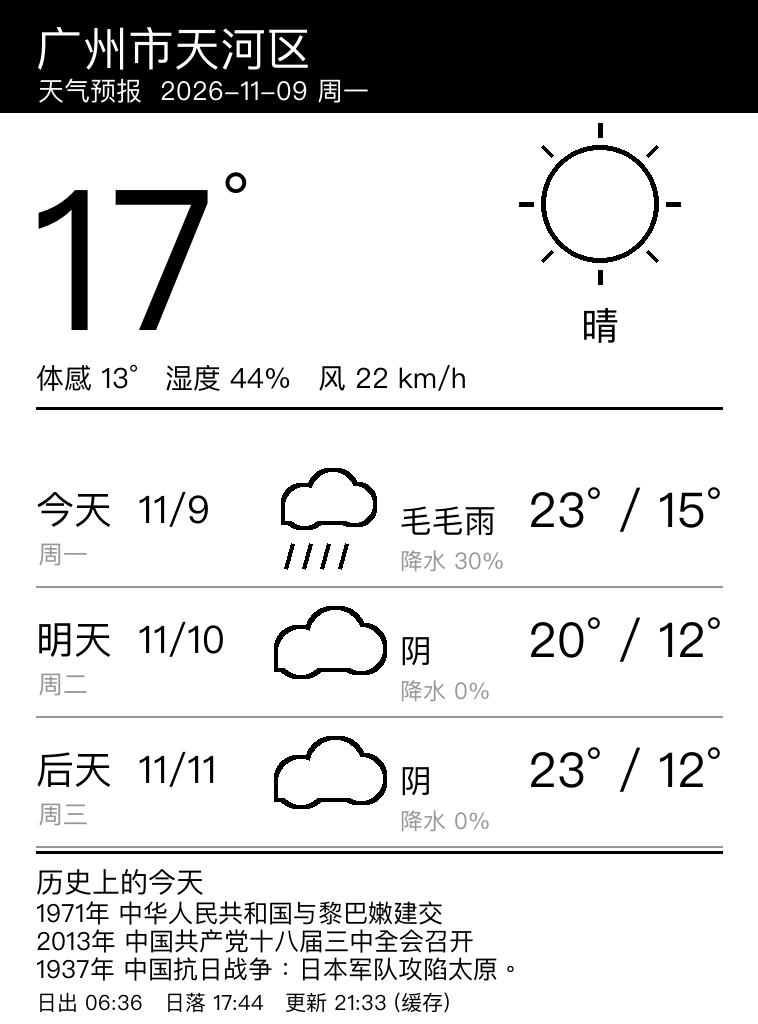
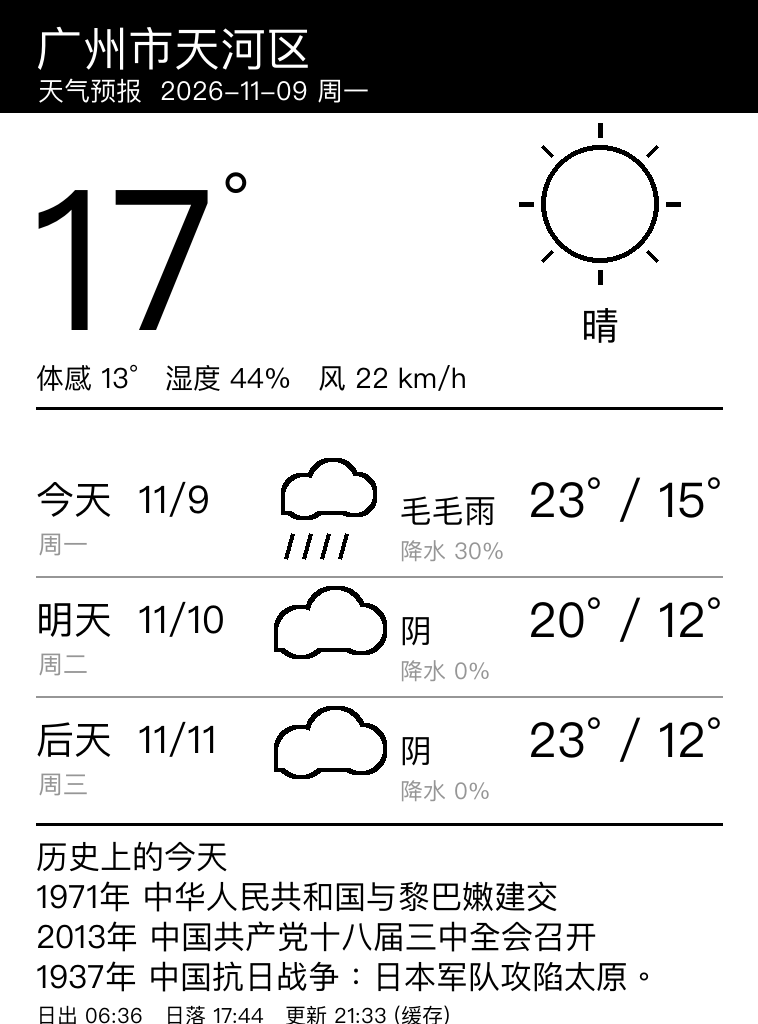
feat: enlarge Today-in-History font and give it more space

diff --git a/gen_weather.py b/gen_weather.py
@@ -339,7 +339,7 @@ def render(data, w, h, live):
 
     # ===== 三天预报（今天/明天/后天 自带标签，无需标题） =====
     names = ["今天", "明天", "后天"]
-    row_y = [T(470), T(600), T(730)]
+    row_y = [T(460), T(580), T(700)]
     for i in range(3):
         y = row_y[i]
         dt = datetime.strptime(dl["time"][i], "%Y-%m-%d")
@@ -356,7 +356,8 @@ def render(data, w, h, live):
 
         hi, lo = round(dl["temperature_2m_max"][i]), round(dl["temperature_2m_min"][i])
         text_r(d, (w - S(36), y + T(6)), "%d° / %d°" % (hi, lo), font(T(48)))
-        d.line([(S(36), y + T(116)), (w - S(36), y + T(116))], fill=GRAY, width=max(1, S(2)))
+        if i < 2:   # 后天行下方不画灰线，由历史块的黑粗分隔线接替
+            d.line([(S(36), y + T(116)), (w - S(36), y + T(116))], fill=GRAY, width=max(1, S(2)))
 
     # ===== 历史上的今天（屏保展示） =====
     try:
@@ -366,12 +367,12 @@ def render(data, w, h, live):
         hist = ""
 
     # ===== 历史上的今天（独立区块，更大空间） =====
-    d.line([(S(36), T(852)), (w - S(36), T(852))], fill=BLACK, width=max(2, S(3)))
-    y = T(862)
-    d.text((S(36), y), "历史上的今天", font=font(T(28)), fill=BLACK)
-    y += T(33)
+    d.line([(S(36), T(824)), (w - S(36), T(824))], fill=BLACK, width=max(2, S(3)))
+    y = T(834)
+    d.text((S(36), y), "历史上的今天", font=font(T(32)), fill=BLACK)
+    y += T(40)
     if hist:
-        hf = font(T(25))
+        hf = font(T(32))
         lines = []
         for ev in hist:
             # 每条历史事件独立换行；超 3 行则停止，保证不越界
@@ -383,11 +384,11 @@ def render(data, w, h, live):
                 break
         for ln in lines[:3]:
             d.text((S(36), y), ln, font=hf, fill=BLACK)
-            y += T(28)
-        y += T(8)
+            y += T(40)
+        y += T(10)
     else:
-        y += T(8)
-    y = min(y, T(996))   # 更新时间行保险上限，防止贴到 1024 底边被裁
+        y += T(10)
+    y = min(y, T(1000))   # 更新时间行保险上限，防止贴到 1024 底边被裁
     sr = dl["sunrise"][0][-5:]
     ss = dl["sunset"][0][-5:]
     upd = fetched[-5:] if len(fetched) >= 5 else fetched  # 只取 HH:MM
